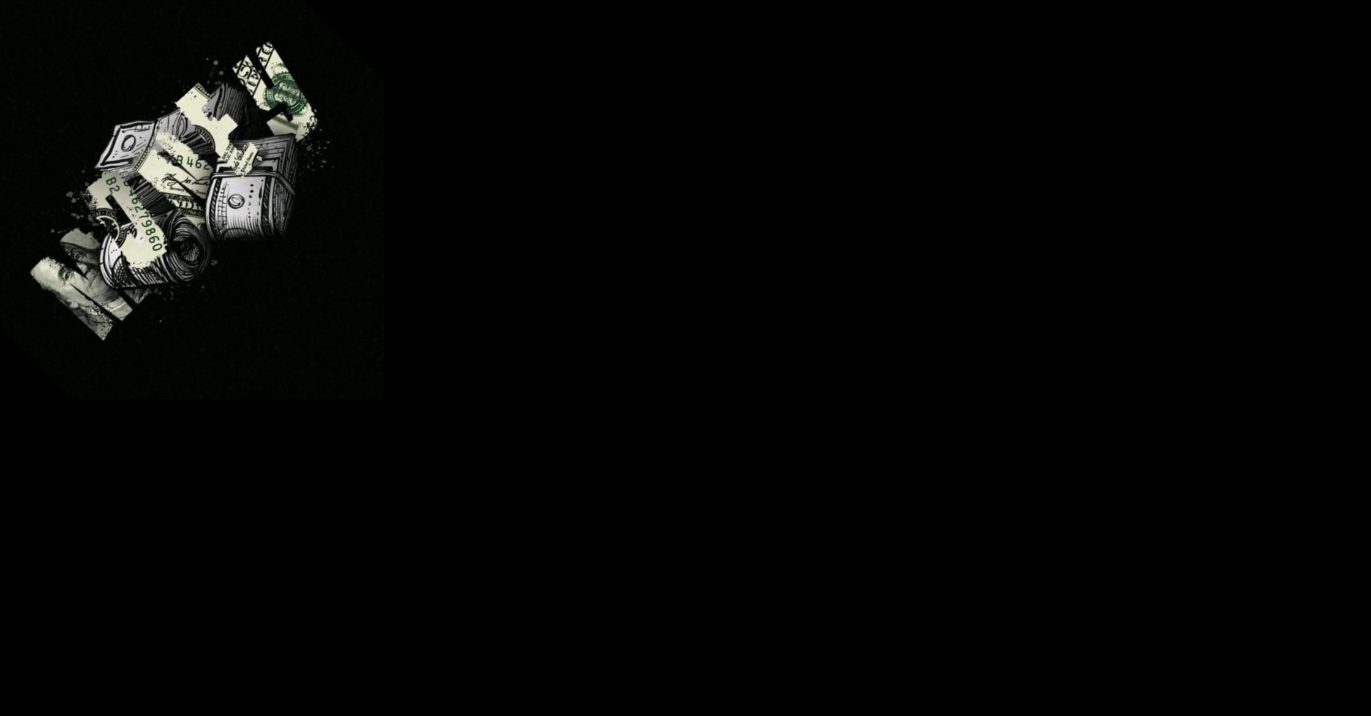
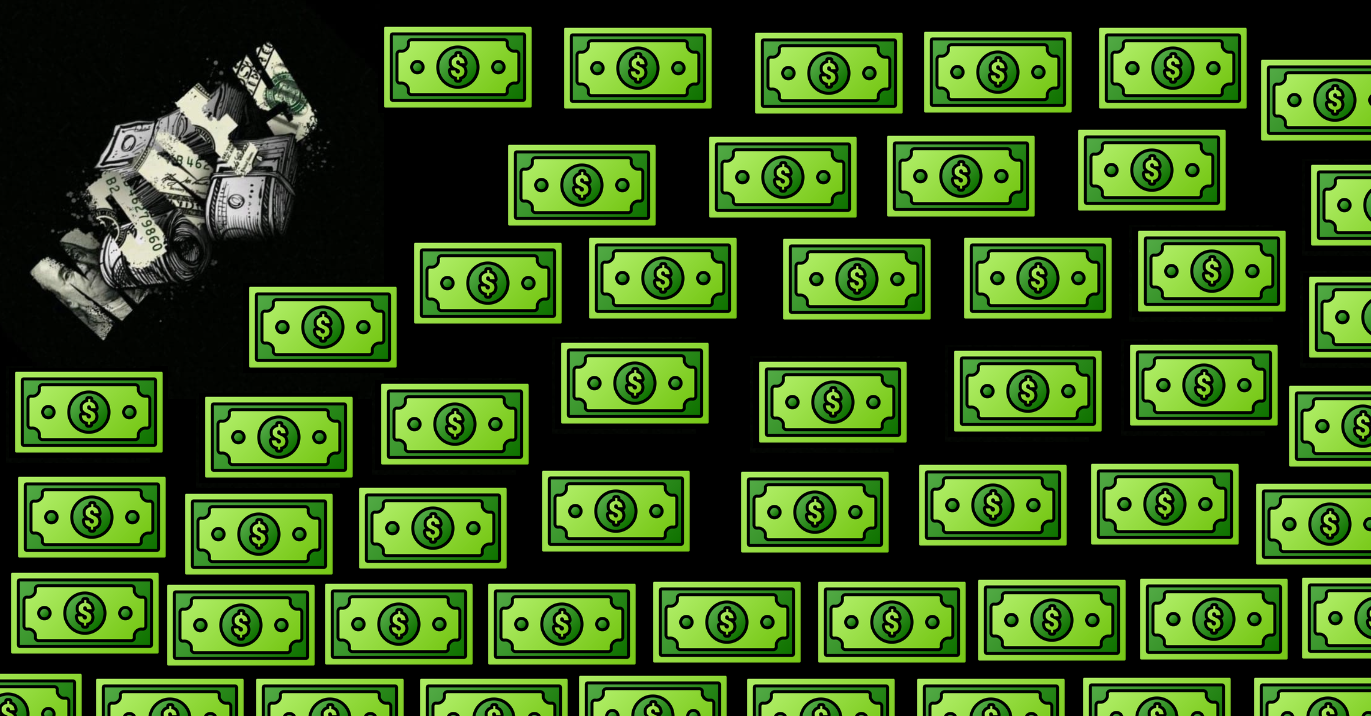
Nueva contraseña cambio de colores

diff --git a/acceso/Login.html b/acceso/Login.html
@@ -38,13 +38,17 @@
         <div id="divGlobal" class="hidden">
             <div id="contInterfazLogin">
                 <section id="sectionHeader" class="row contForm">
-                    <div class="col-xl-12 col-lg-12 col-md-12 col-sm-12
+                    <div
+                        style="display: flex;align-items: center;justify-content:center;width: 100%;">
+                        <div class="col-xl-12 col-lg-12 col-md-12 col-sm-12
                         col-xs-12 contImgLogo">
-                        <div class="spaceSide">
-                            <div class="contTitle">
-                                <p class="pTextTitle">Ingreso al sistema</p>
-                                <p class="pTextSubTitle">¡Introduce tus datos de
-                                    acceso!</p>
+                            <div class="spaceSide">
+                                <div class="contTitle">
+                                    <p class="pTextTitle">Ingreso al sistema</p>
+                                    <p class="pTextSubTitle">¡Introduce tus
+                                        datos de
+                                        acceso!</p>
+                                </div>
                             </div>
                         </div>
                     </div>
@@ -61,7 +65,7 @@
                         </div>
                         <div class="form-group">
                             <label class="labelNameInput" for="usuario">Usuario</label>
-                            <input placeholder="" type="text"
+                            <input placeholder type="text"
                                 class="form-control" id="usuario" name="usuario"
                                 />
                             <span class="spanHelperErrorInput">El usuario es
@@ -73,7 +77,7 @@
                         col-xs-12">
                         <div class="form-group">
                             <label class="labelNameInput" for="password">Contraseña</label>
-                            <input placeholder="" type="password"
+                            <input placeholder type="password"
                                 class="form-control passwordInfo" id="password"
                                 name="password" />
                             <span class="spanHelperErrorInput">La contraseña es
@@ -106,9 +110,9 @@
             aria-hidden="true">
             <div class="modal-dialog dialogCambiarPass">
                 <section class="modal-content content-CambiarContra">
-                    <P class="tituloRestablecerContraseña text-center">Nuevo
+                    <p class="tituloRestablecerContraseña text-center">Nuevo
                         cliente del
-                        sistema</P>
+                        sistema</p>
                     <p class="InfoCambiarPass infoCambiarPass0">Al terminar, te
                         enviaremos la información del inicio de sesión por
                         correo electronico.</p>
@@ -125,7 +129,7 @@
                             <div class="form-group">
                                 <label class="labelNameInput" for="newUser">Nuevo
                                     usuario</label>
-                                <input placeholder="" type="text"
+                                <input placeholder type="text"
                                     class="form-control" id="newUser"
                                     name="newUser"
                                     />
@@ -137,7 +141,7 @@
                             <div class="form-group">
                                 <label class="labelNameInput" for="newPassword">Nueva
                                     contraseña</label>
-                                <input placeholder="" type="password"
+                                <input placeholder type="password"
                                     class="form-control passwordInfo"
                                     id="newPassword"
                                     name="newPassword" />
@@ -150,7 +154,7 @@
                                 <label class="labelNameInput"
                                     for="newPassword2">Repetir
                                     contraseña</label>
-                                <input placeholder="" type="password"
+                                <input placeholder type="password"
                                     class="form-control passwordInfo"
                                     id="newPassword2"
                                     name="newPassword2" />
@@ -162,7 +166,7 @@
                             <div class="form-group">
                                 <label class="labelNameInput" for="newCorreo">Correo
                                     electronico</label>
-                                <input placeholder="" type="text"
+                                <input placeholder type="text"
                                     class="form-control" id="newCorreo"
                                     name="newCorreo"
                                     />
@@ -173,7 +177,7 @@
                             <div class="form-group">
                                 <label class="labelNameInput" for="newName">Nombre
                                     completo</label>
-                                <input placeholder="" type="text"
+                                <input placeholder type="text"
                                     class="form-control" id="newName"
                                     name="newName"
                                     />
@@ -185,7 +189,6 @@
                                 btnCambiarpass" id="btnRegistrar">Registrar</button>
                         </div>
                     </section>
-
 
                 </section>
             </div>

diff --git a/acceso/login.css b/acceso/login.css
@@ -6,7 +6,7 @@ div#divGlobal {
 }
 
 body {
-  background-image: url("../../Multimedia/fondomoney.png") !important;
+  background-image: url("../../Multimedia/fondoMoney.png") !important;
   background-repeat: no-repeat !important;
   background-position: center !important;
   background-size: cover;
@@ -180,7 +180,7 @@ div#contInterfazLogin section#sectionHeader {
 }
 
 section#sectionHeader div.contTitle {
-  margin-top: 10px;
+  margin-top: 15px;
   border-left: 5px solid var(--orange-main-color);
   padding: 7px;
 }
@@ -205,6 +205,12 @@ div.contImgLogo {
   display: flex;
   flex-direction: column;
   align-items: center;
+  background: black;
+  margin: 0 0 -25px 0%;
+  max-width: 75% !important;
+  border-top-left-radius: 10px;
+  border-top-right-radius: 10px;
+  justify-content: center;
 }
 
 div.contImgLogo img {
@@ -213,7 +219,7 @@ div.contImgLogo img {
 
 div.spaceSide {
   width: 100%;
-  padding-left: 20%;
+  padding-left: 12%;
 }
 
 .form-group {
